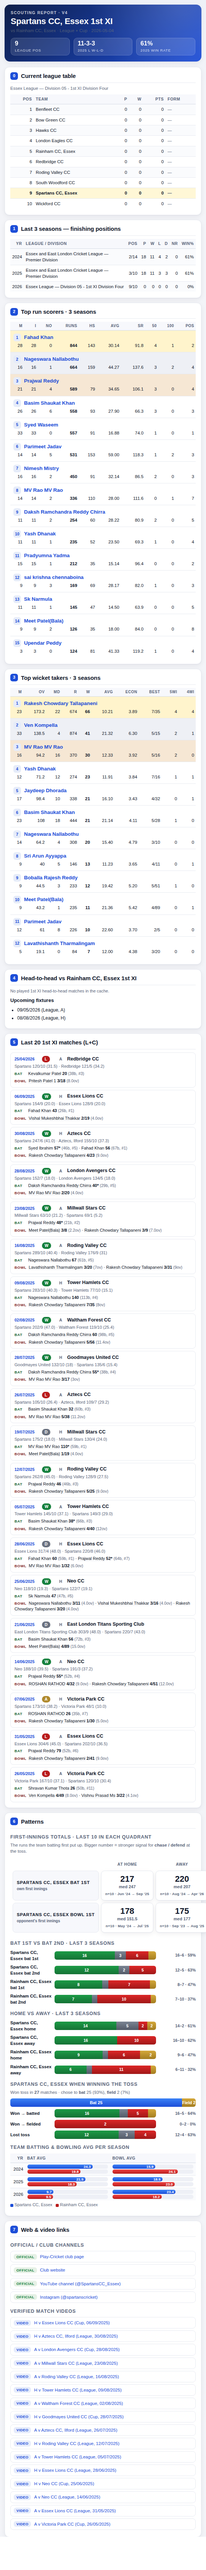
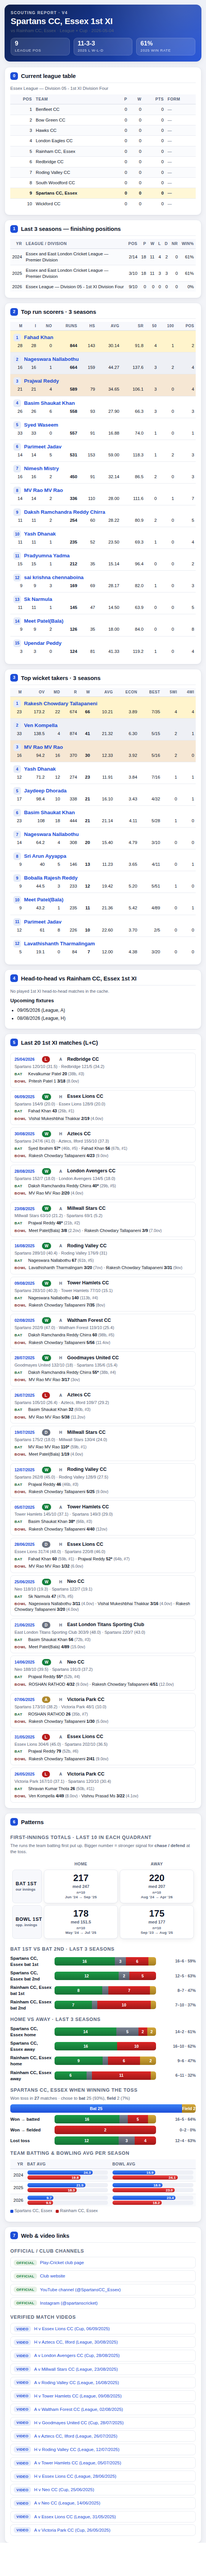
First-innings matrix: drop the team name, fit on a phone
Two visual fixes the user flagged on a ~412 px viewport:
- Row labels were "Spartans CC, Essex bat 1st" / "...bowl 1st".
  The section header already says which team this is about, so the
  team name in every row was just stealing horizontal space — the
  Away column got pushed off-screen on a phone. Row labels are now
  just "Bat 1st" / "Bowl 1st" with a subtitle ("our innings" /
  "opp. innings") underneath.
- Row-header column is now a fixed 78 px (via <colgroup>) so the
  two data cells split the rest of the width evenly and the n / date
  range fits on its own line. Cell font sizing nudged to keep the
  big avg number legible.

Same-day v4 of Spartans regenerated and reports/index.html refreshed.

https://claude.ai/code/session_01LmVG69nWrNfJE9qFWEtWot

diff --git a/reports/scouting/2026-05-04/spartans_cc_essex/v4/scout.html b/reports/scouting/2026-05-04/spartans_cc_essex/v4/scout.html
@@ -181,28 +181,30 @@ table.players tbody tr.p-stat + tr.p-name td{border-top:1px solid var(--line)}
 
 /* First-innings matrix (bat/bowl × home/away) */
 table.fi-matrix{width:100%;margin:6px 0 4px;border-collapse:separate;
-  border-spacing:6px}
-table.fi-matrix thead th{padding:4px 6px;font-size:10.5px;
+  border-spacing:5px;table-layout:fixed}
+table.fi-matrix col.rh-col{width:78px}
+table.fi-matrix thead th{padding:3px 4px;font-size:10.5px;
   text-transform:uppercase;letter-spacing:.05em;color:var(--muted);
   background:none;border:none;text-align:center}
 table.fi-matrix thead th.corner{background:transparent}
-table.fi-matrix th.rh{text-align:left;font-weight:700;font-size:11.5px;
-  color:var(--ink);background:#f7f8fc;padding:8px 10px;border-radius:8px;
-  border:1px solid var(--line);width:36%}
-table.fi-matrix th.rh .subh{display:block;font-size:10px;font-weight:600;
-  color:var(--muted);text-transform:none;letter-spacing:0;margin-top:2px}
+table.fi-matrix th.rh{text-align:left;font-weight:800;font-size:12.5px;
+  color:var(--ink);background:#f7f8fc;padding:8px 8px;border-radius:8px;
+  border:1px solid var(--line);line-height:1.15;vertical-align:middle}
+table.fi-matrix th.rh .subh{display:block;font-size:9.5px;font-weight:600;
+  color:var(--muted);text-transform:none;letter-spacing:0;margin-top:3px;
+  white-space:normal}
 table.fi-matrix td{padding:0;background:transparent;border:none}
 .fi-cell{background:#fff;border:1px solid var(--line);border-radius:9px;
-  padding:8px 10px;text-align:center;box-shadow:var(--shadow);
-  display:flex;flex-direction:column;align-items:center;gap:2px;
-  min-height:78px;justify-content:center}
+  padding:8px 6px;text-align:center;box-shadow:var(--shadow);
+  display:flex;flex-direction:column;align-items:center;gap:1px;
+  min-height:88px;justify-content:center}
 .fi-cell.empty{background:#fafbfd;color:var(--muted)}
-.fi-cell .avg{font-size:22px;font-weight:800;color:var(--ink);line-height:1;
+.fi-cell .avg{font-size:24px;font-weight:800;color:var(--ink);line-height:1;
   font-variant-numeric:tabular-nums}
 .fi-cell .med{font-size:11px;color:var(--muted);font-weight:600;
-  font-variant-numeric:tabular-nums}
+  font-variant-numeric:tabular-nums;margin-top:2px}
 .fi-cell .sub{font-size:9.5px;color:var(--muted);font-weight:600;
-  margin-top:2px;letter-spacing:.02em}
+  letter-spacing:.02em;line-height:1.25}
 
 /* Toss split bar */
 .choice-bar{height:22px;background:#eef0f6;border-radius:6px;
@@ -420,7 +422,7 @@ a:hover{text-decoration:underline}
 <h2><span class='num'>6</span>Patterns</h2>
 <h3>First-innings totals · last 10 in each quadrant</h3>
 <p class='subtle'>The runs the team batting first put up. Bigger number = stronger signal for <b>chase / defend</b> at the toss.</p>
-<table class='fi-matrix'><thead><tr><th class='corner'></th><th>at <b>Home</b></th><th><b>Away</b></th></tr></thead><tbody><tr><th class='rh'>Spartans CC, Essex bat 1st<br><span class='subh'>own first innings</span></th><td><div class='fi-cell'><div class='avg'>217</div><div class='med'>med 247</div><div class='sub'>n=10 · Jun '24 → Sep '25</div></div></td><td><div class='fi-cell'><div class='avg'>220</div><div class='med'>med 207</div><div class='sub'>n=10 · Aug '24 → Apr '26</div></div></td></tr><tr><th class='rh'>Spartans CC, Essex bowl 1st<br><span class='subh'>opponent's first innings</span></th><td><div class='fi-cell'><div class='avg'>178</div><div class='med'>med 151.5</div><div class='sub'>n=10 · May '24 → Jul '25</div></div></td><td><div class='fi-cell'><div class='avg'>175</div><div class='med'>med 177</div><div class='sub'>n=10 · Sep '23 → Aug '25</div></div></td></tr></tbody></table>
+<table class='fi-matrix'><colgroup><col class='rh-col'><col><col></colgroup><thead><tr><th class='corner'></th><th>Home</th><th>Away</th></tr></thead><tbody><tr><th class='rh'>Bat 1st<span class='subh'>our innings</span></th><td><div class='fi-cell'><div class='avg'>217</div><div class='med'>med 247</div><div class='sub'>n=10</div><div class='sub'>Jun '24 → Sep '25</div></div></td><td><div class='fi-cell'><div class='avg'>220</div><div class='med'>med 207</div><div class='sub'>n=10</div><div class='sub'>Aug '24 → Apr '26</div></div></td></tr><tr><th class='rh'>Bowl 1st<span class='subh'>opp. innings</span></th><td><div class='fi-cell'><div class='avg'>178</div><div class='med'>med 151.5</div><div class='sub'>n=10</div><div class='sub'>May '24 → Jul '25</div></div></td><td><div class='fi-cell'><div class='avg'>175</div><div class='med'>med 177</div><div class='sub'>n=10</div><div class='sub'>Sep '23 → Aug '25</div></div></td></tr></tbody></table>
 <h3>Bat 1st vs Bat 2nd · last 3 seasons</h3>
 <div class='chart'><div class='bar-row'><div class='lbl'>Spartans CC, Essex bat 1st</div><div class='bar'><div class='seg W' style='width:59.3%' title='W: 16'>16</div><div class='seg D' style='width:11.1%' title='D: 3'>3</div><div class='seg L' style='width:22.2%' title='L: 6'>6</div><div class='seg A' style='width:7.4%' title='A: 2'></div></div><div class='num'>16–6 · 59%</div></div><div class='bar-row'><div class='lbl'>Spartans CC, Essex bat 2nd</div><div class='bar'><div class='seg W' style='width:63.2%' title='W: 12'>12</div><div class='seg D' style='width:10.5%' title='D: 2'>2</div><div class='seg L' style='width:26.3%' title='L: 5'>5</div></div><div class='num'>12–5 · 63%</div></div><div class='bar-row'><div class='lbl'>Rainham CC, Essex bat 1st</div><div class='bar'><div class='seg W' style='width:47.1%' title='W: 8'>8</div><div class='seg D' style='width:5.9%' title='D: 1'></div><div class='seg L' style='width:41.2%' title='L: 7'>7</div><div class='seg NR' style='width:5.9%' title='NR: 1'></div></div><div class='num'>8–7 · 47%</div></div><div class='bar-row'><div class='lbl'>Rainham CC, Essex bat 2nd</div><div class='bar'><div class='seg W' style='width:36.8%' title='W: 7'>7</div><div class='seg D' style='width:5.3%' title='D: 1'></div><div class='seg L' style='width:52.6%' title='L: 10'>10</div><div class='seg A' style='width:5.3%' title='A: 1'></div></div><div class='num'>7–10 · 37%</div></div></div>
 <h3>Home vs Away · last 3 seasons</h3>

diff --git a/scout.py b/scout.py
@@ -1427,8 +1427,8 @@ def render_md(d):
         md.append("| | at Home | Away |")
         md.append("|---|---|---|")
         for side, label, sub_label in (
-            ("bat",  f"{d['club_name']} **bat 1st**",  "own first innings"),
-            ("bowl", f"{d['club_name']} **bowl 1st**", "opponent's first innings"),
+            ("bat",  "**Bat 1st**",  "our innings"),
+            ("bowl", "**Bowl 1st**", "opp. innings"),
         ):
             row = [f"{label}<br>_{sub_label}_"]
             for venue in ("home", "away"):
@@ -1744,28 +1744,30 @@ table.players tbody tr.p-stat + tr.p-name td{border-top:1px solid var(--line)}
 
 /* First-innings matrix (bat/bowl × home/away) */
 table.fi-matrix{width:100%;margin:6px 0 4px;border-collapse:separate;
-  border-spacing:6px}
-table.fi-matrix thead th{padding:4px 6px;font-size:10.5px;
+  border-spacing:5px;table-layout:fixed}
+table.fi-matrix col.rh-col{width:78px}
+table.fi-matrix thead th{padding:3px 4px;font-size:10.5px;
   text-transform:uppercase;letter-spacing:.05em;color:var(--muted);
   background:none;border:none;text-align:center}
 table.fi-matrix thead th.corner{background:transparent}
-table.fi-matrix th.rh{text-align:left;font-weight:700;font-size:11.5px;
-  color:var(--ink);background:#f7f8fc;padding:8px 10px;border-radius:8px;
-  border:1px solid var(--line);width:36%}
-table.fi-matrix th.rh .subh{display:block;font-size:10px;font-weight:600;
-  color:var(--muted);text-transform:none;letter-spacing:0;margin-top:2px}
+table.fi-matrix th.rh{text-align:left;font-weight:800;font-size:12.5px;
+  color:var(--ink);background:#f7f8fc;padding:8px 8px;border-radius:8px;
+  border:1px solid var(--line);line-height:1.15;vertical-align:middle}
+table.fi-matrix th.rh .subh{display:block;font-size:9.5px;font-weight:600;
+  color:var(--muted);text-transform:none;letter-spacing:0;margin-top:3px;
+  white-space:normal}
 table.fi-matrix td{padding:0;background:transparent;border:none}
 .fi-cell{background:#fff;border:1px solid var(--line);border-radius:9px;
-  padding:8px 10px;text-align:center;box-shadow:var(--shadow);
-  display:flex;flex-direction:column;align-items:center;gap:2px;
-  min-height:78px;justify-content:center}
+  padding:8px 6px;text-align:center;box-shadow:var(--shadow);
+  display:flex;flex-direction:column;align-items:center;gap:1px;
+  min-height:88px;justify-content:center}
 .fi-cell.empty{background:#fafbfd;color:var(--muted)}
-.fi-cell .avg{font-size:22px;font-weight:800;color:var(--ink);line-height:1;
+.fi-cell .avg{font-size:24px;font-weight:800;color:var(--ink);line-height:1;
   font-variant-numeric:tabular-nums}
 .fi-cell .med{font-size:11px;color:var(--muted);font-weight:600;
-  font-variant-numeric:tabular-nums}
+  font-variant-numeric:tabular-nums;margin-top:2px}
 .fi-cell .sub{font-size:9.5px;color:var(--muted);font-weight:600;
-  margin-top:2px;letter-spacing:.02em}
+  letter-spacing:.02em;line-height:1.25}
 
 /* Toss split bar */
 .choice-bar{height:22px;background:#eef0f6;border-radius:6px;
@@ -2278,7 +2280,12 @@ def mini_double_bar(us_val, vs_val, max_val):
 
 
 def _render_fi_matrix(matrix, club_name):
-    """Render the bat/bowl × home/away first-innings matrix."""
+    """Render the bat/bowl × home/away first-innings matrix.
+
+    Row labels are deliberately short — the section header already tells
+    the reader which team this is about, so repeating the club name in
+    every row just steals horizontal space from the data cells.
+    """
     def cell(side, venue):
         c = matrix.get((side, venue))
         if not c:
@@ -2288,26 +2295,33 @@ def _render_fi_matrix(matrix, club_name):
         first = _date_short(c["first"])
         last = _date_short(c["last"])
         med = c["median"]
-        med_s = f"{med:.0f}" if isinstance(med, float) and med.is_integer() else f"{med:.1f}".rstrip("0").rstrip(".") if isinstance(med, float) else str(med)
+        if isinstance(med, float):
+            med_s = f"{med:.0f}" if med.is_integer() else f"{med:.1f}"
+        else:
+            med_s = str(med)
         return (f"<div class='fi-cell'>"
                 f"<div class='avg'>{c['avg']:.0f}</div>"
                 f"<div class='med'>med {med_s}</div>"
-                f"<div class='sub'>n={c['n']} · {_esc(first)} → {_esc(last)}</div>"
+                f"<div class='sub'>n={c['n']}</div>"
+                f"<div class='sub'>{_esc(first)} → {_esc(last)}</div>"
                 f"</div>")
 
     return (
         "<table class='fi-matrix'>"
+        "<colgroup>"
+        "<col class='rh-col'><col><col>"
+        "</colgroup>"
         "<thead><tr>"
         "<th class='corner'></th>"
-        "<th>at <b>Home</b></th>"
-        "<th><b>Away</b></th>"
+        "<th>Home</th>"
+        "<th>Away</th>"
         "</tr></thead>"
         "<tbody>"
-        f"<tr><th class='rh'>{_esc(club_name)} bat 1st<br>"
-        f"<span class='subh'>own first innings</span></th>"
+        "<tr><th class='rh'>Bat 1st"
+        "<span class='subh'>our innings</span></th>"
         f"<td>{cell('bat','home')}</td><td>{cell('bat','away')}</td></tr>"
-        f"<tr><th class='rh'>{_esc(club_name)} bowl 1st<br>"
-        f"<span class='subh'>opponent's first innings</span></th>"
+        "<tr><th class='rh'>Bowl 1st"
+        "<span class='subh'>opp. innings</span></th>"
         f"<td>{cell('bowl','home')}</td><td>{cell('bowl','away')}</td></tr>"
         "</tbody></table>"
     )

diff --git a/reports/scouting/2026-05-04/spartans_cc_essex/v4/scout.md b/reports/scouting/2026-05-04/spartans_cc_essex/v4/scout.md
@@ -143,8 +143,8 @@ _The runs the team batting first put up. Avg shown prominently, median in bracke
 
 | | at Home | Away |
 |---|---|---|
-| Spartans CC, Essex **bat 1st**<br>_own first innings_ | **217** (med 247) <br><sub>n=10 · Jun '24 → Sep '25</sub> | **220** (med 207) <br><sub>n=10 · Aug '24 → Apr '26</sub> |
-| Spartans CC, Essex **bowl 1st**<br>_opponent's first innings_ | **178** (med 151.5) <br><sub>n=10 · May '24 → Jul '25</sub> | **175** (med 177) <br><sub>n=10 · Sep '23 → Aug '25</sub> |
+| **Bat 1st**<br>_our innings_ | **217** (med 247) <br><sub>n=10 · Jun '24 → Sep '25</sub> | **220** (med 207) <br><sub>n=10 · Aug '24 → Apr '26</sub> |
+| **Bowl 1st**<br>_opp. innings_ | **178** (med 151.5) <br><sub>n=10 · May '24 → Jul '25</sub> | **175** (med 177) <br><sub>n=10 · Sep '23 → Aug '25</sub> |
 
 ### 6b. When batting first vs second (last 3 seasons L+C)
 
